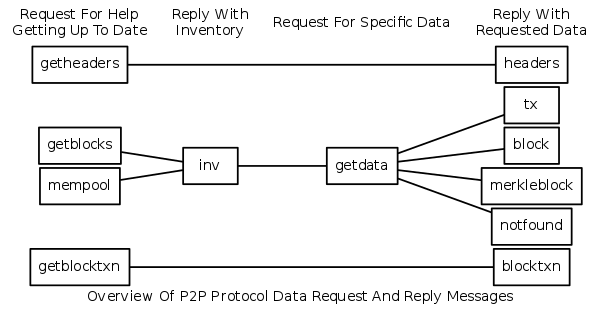
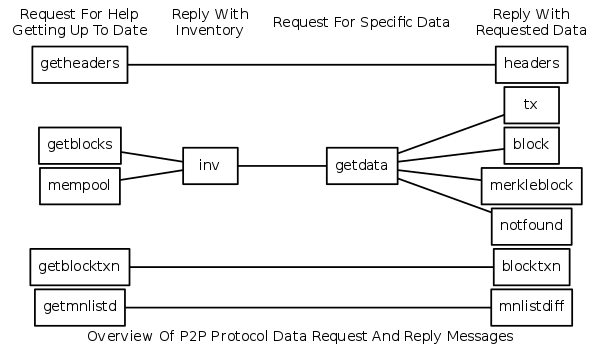
Content - P2P - Add DIP4 p2p messages
getmnlistd and mnlistdiff with details
Update data message image with DIP4 messages

diff --git a/_includes/devdoc/ref_p2p_networking.md b/_includes/devdoc/ref_p2p_networking.md
@@ -542,6 +542,34 @@ to the `getheaders` message will include as many as 2,000 block headers.
 
 {% endautocrossref %}
 
+#### GetMNListD
+{% include helpers/subhead-links.md %}
+
+{% autocrossref %}
+
+*Added in protocol version 70211*
+
+The `getmnlistd` message is sent to request a full masternode list or an
+update to a previously requested masternode list.
+
+| Bytes | Name | Data type | Required | Description |
+| ---------- | ----------- | --------- | -------- | -------- |
+| 32 | baseBlockHash | uint256 | Required | Hash of a block the requester already has a valid masternode list of.<br>_Note: Can be all-zero to indicate that a full masternode list is requested._
+| 32 | blockHash | uint256 | Required | Hash of the block for which the masternode list diff is requested
+
+The following annotated hexdump shows a `getmnlistd` message. (The
+message header has been omitted.)
+
+{% highlight text %}
+000001ee5108348a2c59396da29dc576
+9b2a9bb303d7577aee9cd95136c49b9b ........... Base block hash
+
+0000030f51f12e7069a7aa5f1bc9085d
+db3fe368976296fd3b6d73fdaf898cc0 ........... Block hash
+{% endhighlight %}
+
+{% endautocrossref %}
+
 #### Headers
 {% include helpers/subhead-links.md %}
 
@@ -846,6 +874,87 @@ After you fully process the merkle root node according to the
 instructions in the table above, processing is complete.  Pad your flag
 list to a byte boundary and construct the `merkleblock` message using the
 template near the beginning of this subsection.
+
+{% endautocrossref %}
+
+#### MnListDiff
+{% include helpers/subhead-links.md %}
+
+{% autocrossref %}
+
+*Added in protocol version 70211*
+
+The `mnlistdiff` message is a reply to a `getmnlistd` message which
+requested either a full masternode list or a diff for a range of blocks.
+
+| Bytes | Name | Data type | Required | Description |
+| ---------- | ----------- | --------- | -------- | -------- |
+| 32 | baseBlockHash | uint256 | Required | Hash of a block the requester already has a valid masternode list of. Can be all-zero to indicate that a full masternode list is requested.
+| 32 | blockHash | uint256 | Required | Hash of the block for which the masternode list diff is requested
+| 4 | totalTransactions | uint32_t  | Required | Number of total transactions in `blockHash`
+| 1-9 | merkleHashesCount | compactSize uint | Required | Number of Merkle hashes
+| variable | merkleHashes | vector | Required | Merkle hashes in depth-first order
+| 1-9 | merkleFlagsCount | compactSize uint | Required | Number of Merkle flag bytes
+| variable | merkleFlags | vector<uint8_t> | Required | Merkle flag bits, packed per 8 in a byte, least significant bit first
+| variable | cbTx | CTransaction | Required | The fully serialized coinbase transaction of `blockHash`
+| variable | deletedMNs | vector | Required | A list of ProRegTx hashes for masternode which were deleted after `baseBlockHash`
+| variable | mnList | vector | Required | The list of SML entries which were added or updated since `baseBlockHash`
+
+The following annotated hexdump shows a `mnlistdiff` message. (The
+message header has been omitted.)
+
+{% highlight text %}
+000001ee5108348a2c59396da29dc576
+9b2a9bb303d7577aee9cd95136c49b9b ........... Base block hash
+
+0000030f51f12e7069a7aa5f1bc9085d
+db3fe368976296fd3b6d73fdaf898cc0 ........... Block hash
+
+05000000 ................................... Transactions: 5
+
+04 ......................................... Merkle hash count: 4
+
+4488a599e5d61709664c32305befd58b
+ef29e33bc6e718af0233f938557a57a9 ........... Merkle hash 1
+5c8119b7b136d94e477a0d2917d5f724
+5ff299cc6e31994f6236a8fb34fec88f ........... Merkle hash 2
+905efa3e6743c889823f00147d36d12f
+d12ad401c19089f0affcabd423deef67 ........... Merkle hash 3
+3f3a7f84d7ad33214994b5aecf4c1e19
+2cb65b86750b1377e069073d1eba477a ........... Merkle hash 4
+
+01 ......................................... Merkle flag count: 1
+0f ......................................... Flags: 0 0 0 0 1 1 1 1
+
+[...]....................................... Coinbase Tx (Not shown)
+
+00 ......................................... Deleted masternodes: 0
+
+02 ......................................... Masternode list entries: 2
+
+Masternode List
+| Masternode 1
+| | 01040eb32f760490054543356cff4638
+| | 65633439dd073cffa570305eb086f70e ....... ProRegTx hash
+| | 00000000000000000000000000000000 ....... IP Address: ::ffff:0.0.0.0
+| | 0000 ................................... Port: 0
+| |
+| | 0000000000000000000000000000000000000000
+| | 0000000000000000000000000000000000000000
+| | 0000000000000000 ....................... Operator public key (BLS)
+| | c2ae01fb4084cbc3bc31e7f59b36be228a320404 Voting pubkey hash (ECDSA)
+|
+| Masternode 2
+| | f7737beb39779971e9bc59632243e13f
+| | c5fc9ada93b69bf48c2d4c463296cd5a ....... ProRegTx hash
+| | 000000000000000000000000cf9af40d ....... IP Address: ::ffff:207.154.244.13
+| | 4e1f ................................... Port: 19999
+| |
+| | 88d719278eef605d9c19037366910b59bc28d437
+| | de4a8db4d76fda6d6985dbdf10404fb9bb5cd0e8
+| | c22f4a914a6c5566 ....................... Operator public key (BLS)
+| | 43ce12751c4ba45dcdfe2c16cefd61461e17a54d Voting pubkey hash (ECDSA)
+{% endhighlight %}
 
 {% endautocrossref %}
 
